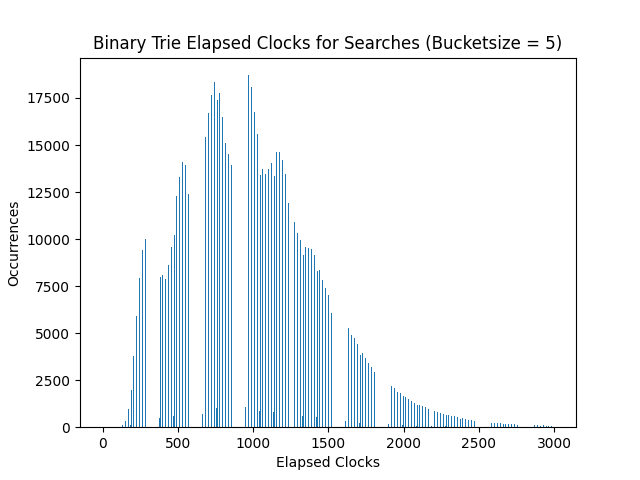
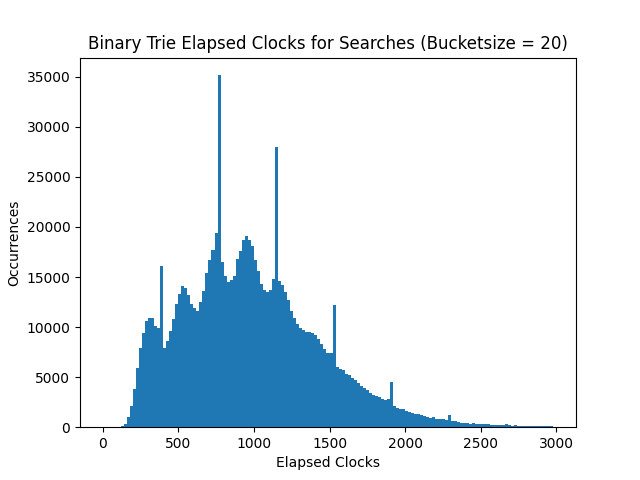
final

diff --git a/visualize.py b/visualize.py
@@ -6,14 +6,14 @@ def plot_frequency_distribution(filename):
     array = np.loadtxt(filename)
     print(np.median(array), np.mean(array))
     # Plot frequency distribution
-    bin_interval = 6
+    bin_interval = 20
     bins = np.arange(0, 3000, bin_interval)
     plt.hist(array, bins=bins, range=(0,5000))
     plt.xlabel('Elapsed Clocks')
     plt.ylabel('Occurrences')
-    plt.title('Binary Trie Elapsed Clocks for Searches (Bucketsize = 5)')
+    plt.title('Binary Trie Elapsed Clocks for Searches (Bucketsize = 20)')
     plt.show()
 
 # Example usage
-filename = 'fourbittrie_clocks.txt'
+filename = 'btrie_clocks.txt'
 plot_frequency_distribution(filename)
